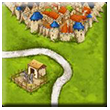
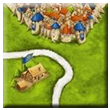
Client: Упростить признаки тайлов и убрать значки

diff --git a/tests/integration/gameManagerGarden.test.ts b/tests/integration/gameManagerGarden.test.ts
@@ -14,8 +14,8 @@ import type { Player, Tile, TileSides } from '../../server/src/modules/types'
 /**
  * Детерминированные тесты сада на «живом» GameManager: на сад ставится только
  * аббат (обычный подданный не допускается), при завершении сад очков не даёт,
- * а аббат отзывается владельцем за частичные очки. Количество садов
- * определяется описанием тайла, а позиция в колоде остаётся случайной.
+ * а аббат отзывается владельцем за частичные очки. Наличие сада задаётся
+ * определением тайла, а позиция в колоде остаётся случайной.
  */
 
 function gardenTile(): Tile {
@@ -93,7 +93,7 @@ function currentScore(game: GameManager, playerId: number): number {
 }
 
 describe('Сад (оба игрока-человека, фиксированная доска)', () => {
-  it('колода помечает заданное количество копий каждого базового тайла', () => {
+  it('все копии базового тайла с hasGarden сохраняют признак сада', () => {
     const random = Math.random
     Math.random = () => 0
     try {
@@ -108,16 +108,10 @@ describe('Сад (оба игрока-человека, фиксированна
         counts[tile.id] = (counts[tile.id] ?? 0) + 1
       }
 
-      expect(gardenTiles).toHaveLength(8)
+      expect(gardenTiles).toHaveLength(5)
       expect(counts).toEqual({
-        E: 1,
-        H: 1,
-        I: 1,
-        M: 1,
-        N: 1,
-        R: 1,
-        U: 1,
-        V: 1,
+        I: 2,
+        R: 3,
       })
       // Фишер—Йейтс не группирует все сады в одной половине колоды.
       const gardenPositions = game.tilesList.flatMap((tile, index) =>
@@ -149,7 +143,7 @@ describe('Сад (оба игрока-человека, фиксированна
       counts[tile.id] = (counts[tile.id] ?? 0) + 1
     }
 
-    expect(gardenTiles).toHaveLength(10)
+    expect(gardenTiles).toHaveLength(7)
     expect(counts).toMatchObject({ [TileId.IAC_B]: 1, [TileId.IAC_H]: 1 })
   })
 

diff --git a/server/src/data/tiles.ts b/server/src/data/tiles.ts
@@ -9,11 +9,10 @@ import {
 export interface TileDefinition {
   id: TileId
   count: number
-  /** Число копий этого тайла, отмечаемых садом при генерации колоды. */
-  gardenCount?: number
   description: string
   sides: TileSides
   isMonastery?: boolean
+  hasGarden?: boolean
   withShield?: boolean
   isSolidCity?: boolean
   hasInn?: boolean
@@ -89,7 +88,6 @@ export const tiles: TileDefinition[] = [
   {
     id: TileId.E,
     count: 5,
-    gardenCount: 1,
     description: 'City',
     sides: {
       [SideName.North]: TileSideType.City,
@@ -131,7 +129,6 @@ export const tiles: TileDefinition[] = [
   {
     id: TileId.H,
     count: 3,
-    gardenCount: 1,
     description: 'Two city edges',
     sides: {
       [SideName.North]: TileSideType.City,
@@ -145,7 +142,7 @@ export const tiles: TileDefinition[] = [
   {
     id: TileId.I,
     count: 2,
-    gardenCount: 1,
+    hasGarden: true,
     description: 'Two adjacent city edges',
     sides: {
       [SideName.North]: TileSideType.City,
@@ -201,7 +198,6 @@ export const tiles: TileDefinition[] = [
   {
     id: TileId.M,
     count: 2,
-    gardenCount: 1,
     description: 'Two city edges with shield',
     sides: {
       [SideName.North]: TileSideType.City,
@@ -216,7 +212,6 @@ export const tiles: TileDefinition[] = [
   {
     id: TileId.N,
     count: 3,
-    gardenCount: 1,
     description: 'City with road',
     sides: {
       [SideName.North]: TileSideType.City,
@@ -276,7 +271,7 @@ export const tiles: TileDefinition[] = [
   {
     id: TileId.R,
     count: 3,
-    gardenCount: 1,
+    hasGarden: true,
     description: 'City',
     sides: {
       [SideName.North]: TileSideType.City,
@@ -320,7 +315,6 @@ export const tiles: TileDefinition[] = [
   {
     id: TileId.U,
     count: 8,
-    gardenCount: 1,
     description: 'Straight road',
     sides: {
       [SideName.North]: TileSideType.Road,
@@ -334,7 +328,6 @@ export const tiles: TileDefinition[] = [
   {
     id: TileId.V,
     count: 9,
-    gardenCount: 1,
     description: 'Curved road',
     sides: {
       [SideName.North]: TileSideType.Field,

diff --git a/src/components/TileView.vue b/src/components/TileView.vue
@@ -16,27 +16,6 @@
         :height="size"
         class="pointer-events-none absolute left-1/2 top-1/2 -translate-x-1/2 -translate-y-1/2 scale-[1.08] transition-transform duration-200 ease-in-out"
       ></canvas>
-      <div
-        v-if="props.tile?.hasGarden"
-        class="pointer-events-none absolute left-1 top-1 z-10 flex h-5 w-5 items-center justify-center rounded-full bg-gold ring-1 ring-black/25"
-        :title="'Сад'"
-      >
-        <UIcon name="i-lucide-flower-2" class="h-3.5 w-3.5 text-white" />
-      </div>
-      <div
-        v-if="props.tile?.hasCathedral"
-        class="pointer-events-none absolute right-1 top-1 z-10 flex h-5 w-5 items-center justify-center rounded-full bg-gold ring-1 ring-black/25"
-        :title="'Собор'"
-      >
-        <UIcon name="i-lucide-church" class="h-3.5 w-3.5 text-white" />
-      </div>
-      <div
-        v-if="props.tile?.hasInn"
-        class="pointer-events-none absolute right-1 bottom-1 z-10 flex h-5 w-5 items-center justify-center rounded-full bg-gold ring-1 ring-black/25"
-        :title="'Таверна'"
-      >
-        <UIcon name="i-lucide-beer" class="h-3.5 w-3.5 text-white" />
-      </div>
     </template>
     <template v-else>
       <div></div>
@@ -56,7 +35,6 @@ import {
 import { rotationClass } from '@/utils/tiles'
 import { getFollowerPosition, isTileId } from '@/utils/followerPositions'
 import { playerColorValue } from '@/utils/colors'
-import UIcon from '@nuxt/ui/components/Icon.vue'
 
 const props = defineProps({
   tile: Object,

diff --git a/src/rules/examples.ts b/src/rules/examples.ts
@@ -60,6 +60,7 @@ export const rot = (id: TileId, rotation: RulesRotation = 0): RulesTileRef => {
     id,
     rotation,
     imgUrl: data.imgUrl,
+    ...(data.hasGarden ? { hasGarden: true } : {}),
     ...(data.hasInn ? { hasInn: true } : {}),
     ...(data.hasCathedral ? { hasCathedral: true } : {}),
   }
@@ -70,10 +71,10 @@ export const garden = (
   id: TileId,
   rotation: RulesRotation = 0
 ): RulesTileRef => {
-  if (!tileDataById(id)?.gardenCount) {
+  if (!tileDataById(id)?.hasGarden) {
     throw new Error(`[rules] Для тайла ${id} не предусмотрен сад`)
   }
-  return { ...rot(id, rotation), hasGarden: true }
+  return rot(id, rotation)
 }
 
 /** Клетка сетки из тайла с произвольным набором маркеров. */
@@ -176,8 +177,7 @@ export const validateExampleGrid = (
           if (marker.direction === PointDirection.Center) {
             if (
               !tileDataById(tile.id)?.isMonastery &&
-              !tile.hasGarden &&
-              !tileDataById(tile.id)?.gardenCount
+              !tileDataById(tile.id)?.hasGarden
             ) {
               errors.push(
                 `[${exampleId}] маркер «center» на (${x},${y}) — тайл не монастырь и не сад`

diff --git a/tests/unit/riverTiles.test.ts b/tests/unit/riverTiles.test.ts
@@ -96,7 +96,7 @@ describe('Тайлы дополнения «Река»', () => {
     }
   })
 
-  it('учитывает gardenCount речного тайла при генерации колоды', () => {
+  it('сохраняет hasGarden речного тайла при генерации колоды', () => {
     const game = new GameManager({
       riverEnabled: true,
       startImmediately: false,
@@ -107,9 +107,9 @@ describe('Тайлы дополнения «Река»', () => {
     )
 
     expect(riverGardenTiles).toHaveLength(1)
-    expect(
-      riverTiles.find(({ id }) => id === TileId.RIVER_J)?.gardenCount
-    ).toBe(1)
+    expect(riverTiles.find(({ id }) => id === TileId.RIVER_J)?.hasGarden).toBe(
+      true
+    )
   })
 
   it('разрешает только продолжение открытого русла до конечного озера', () => {

diff --git a/server/src/data/innsAndCathedralsTiles.ts b/server/src/data/innsAndCathedralsTiles.ts
@@ -24,7 +24,7 @@ export const innsAndCathedralsTiles: TileDefinition[] = [
   {
     id: TileId.IAC_B,
     count: 1,
-    gardenCount: 1,
+    hasGarden: true,
     description: 'Straight road with inn',
     sides: {
       [SideName.North]: TileSideType.Field,
@@ -116,7 +116,7 @@ export const innsAndCathedralsTiles: TileDefinition[] = [
   {
     id: TileId.IAC_H,
     count: 1,
-    gardenCount: 1,
+    hasGarden: true,
     description: 'Opposite city edges',
     sides: {
       [SideName.North]: TileSideType.City,

diff --git a/server/src/modules/GameTileManager.ts b/server/src/modules/GameTileManager.ts
@@ -37,11 +37,7 @@ function shuffleTiles(tilesToShuffle: Tile[]): Tile[] {
 
 function createTileCopies(definitions: TileDefinition[]): Tile[] {
   return definitions.flatMap<Tile>((tile) =>
-    Array.from({ length: tile.count }, (_, index) => {
-      const copy: Tile = { ...tile, rotation: 0 }
-      if (index < (tile.gardenCount ?? 0)) copy.hasGarden = true
-      return copy
-    })
+    Array.from({ length: tile.count }, () => ({ ...tile, rotation: 0 }))
   )
 }
 

diff --git a/server/src/data/riverTiles.ts b/server/src/data/riverTiles.ts
@@ -127,7 +127,7 @@ export const riverTiles: TileDefinition[] = [
   {
     id: TileId.RIVER_J,
     count: 1,
-    gardenCount: 1,
+    hasGarden: true,
     description: 'River bend by a farm',
     sides: {
       [SideName.North]: TileSideType.Field,

diff --git a/CHANGELOG.md b/CHANGELOG.md
@@ -16,8 +16,9 @@
 ### Changed
 
 - **Каталог тайлов** — число копий с садом хранится в описании самого тайла;
-  генерация колоды использует это свойство и по-прежнему случайно перемешивает
-  тайлы.
+  свойство `hasGarden` задаёт наличие сада на всех копиях, генерация колоды
+  сохраняет его и по-прежнему случайно перемешивает тайлы. Значки сада, собора
+  и таверны поверх изображений тайлов удалены.
 
 ## [2.1.0] - 2026-09-30
 
